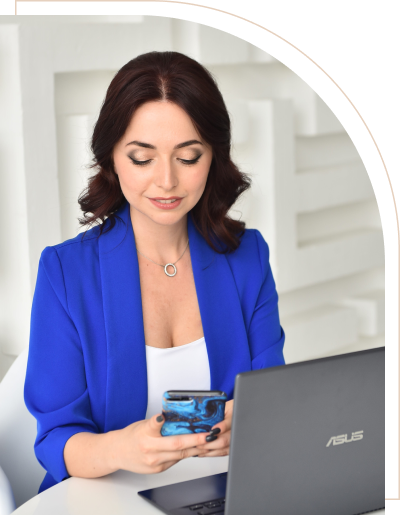
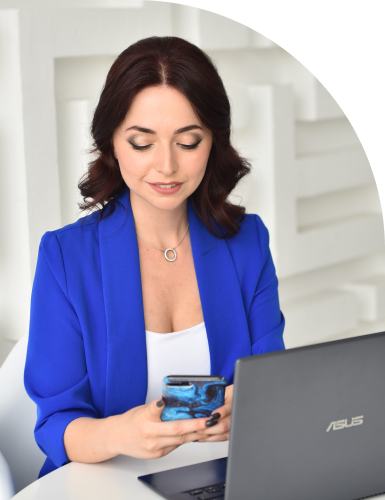
add burger

diff --git a/styles/styles.css b/styles/styles.css
@@ -151,15 +151,17 @@
 
 .section_upmain {
   padding-block: 11rem 2rem;
-  grid-template-columns: 0.9fr 1fr;
+  grid-template-columns: 1fr 1fr;
 }
 
 .upmain_left {
   position: relative;
+  max-width: 480px;
+  max-height: 650px;
   z-index: 1;
 }
 
-.upmain_wrapper::after {
+.upmain_frame::after {
   content: "";
   position: absolute;
   width: 100%;
@@ -173,12 +175,6 @@
   z-index: -1;
 }
 
-.upmain_left img {
-  display: block;
-  max-width: 480px;
-  height: auto;
-  z-index: 1;
-}
 
 .upmain_right {
   display: flex;
@@ -237,6 +233,27 @@
   height: fit-content;
 }
 
+.section_center{
+    position: relative;
+    max-width: 360px;
+    max-height: 560px;
+    z-index: 1;
+}
+
+.main_frame::after{
+    content: "";
+    position: absolute;
+    width: 100%;
+    height: 100%;
+    border: 1.5px solid var(--secondaryColor);
+    /* clip-path: polygon(0 0, 100% 0, 100% 80%, 0 100%); */
+    border-top-left-radius: 250px;
+    bottom: -24px;
+    left: 24px;
+    z-index: -1;
+}
+
+
 /* =================  SECTION ABOUT ============================= */
 .section_about,
 .section_education {
@@ -252,6 +269,26 @@
 .section_about_left {
   gap: 2rem;
 }
+
+.section_about_right{
+    position: relative;
+    max-width: 432px;
+    max-height: 646px;
+    z-index: 1;
+}
+
+.about_frame::after{
+    content: "";
+    position: absolute;
+    width: 100%;
+    height: 100%;
+    background-color: var(--secondaryColor);
+    border-top-left-radius: 250px;
+    bottom: -24px;
+    right: 24px;
+    z-index: -1;
+}
+
 /*========================== SECTION EDUCATION =============== */
 
 .section_education_content {
@@ -311,6 +348,27 @@
   margin-top: 0;
 }
 
+.section_consultation_left{
+    position: relative;
+    max-width: 385px;
+    max-height: 500px;
+    z-index: 1;
+}
+
+.consultation_frame::after{
+    content: "";
+    position: absolute;
+    width: 100%;
+    height: 100%;
+    border: 1.5px solid var(--secondaryColor);
+    border-top-right-radius: 250px;
+    top: -24px;
+    left: 24px;
+    z-index: -1;
+}
+
+
+
 /* ================= SECTION  FAQ ============================ */
 .section_faq {
   padding-block: 9.5rem 2rem;
@@ -321,6 +379,26 @@
   padding-top: 3.7rem;
   gap: 7.5rem;
 }
+
+.section_faq_right{
+    position: relative;
+    max-width: 432px;
+    max-height: 600px;
+    z-index: 1;
+}
+
+.faq_frame::after{
+    content: "";
+    position: absolute;
+    width: 100%;
+    height: 100%;
+    border: 1.5px solid var(--secondaryColor);
+    border-top-left-radius: 250px;
+    bottom: -24px;
+    right: 24px;
+    z-index: -1;
+}
+
 
 /* ========= FAQ ================ */
 
@@ -415,6 +493,20 @@ svg {
   display: flex;
   justify-content: space-between;
 }
+.footer .legal p{
+    font-size: 14px;
+}
+
+.footer .legal p, 
+.footer .footer_last_items li:nth-last-child(1)
+{
+    color: var(--mainColor);
+}
+
+.footer_menu ul{
+    display: grid;
+    gap: 10px;
+}
 
 .footer .footer_menu {
   display: flex;
@@ -422,6 +514,13 @@ svg {
 }
 .footer .footer_last_items {
   text-align: end;
+  display: grid;
+  gap: 10px;
+}
+
+.footer .footer_last_items address{
+    font-family: var(--textFont);
+    font-style: normal;
 }
 
 /* LOADER/.........................................================================ */

diff --git a/index.html b/index.html
@@ -47,7 +47,7 @@
         <section class="container section section_upmain grid">
           <!-- <img class="absolute_element" src="/assets/images/Rectangle 13.png" alt=""> -->
           <div class="upmain_left">
-            <div class="upmain_wrapper">
+            <div class="upmain_frame">
               <img src="/assets/images/upmain-photo.png" alt="Image of Hero" />
             </div>
           </div>
@@ -174,7 +174,11 @@
                 <p>Страх, стыд, обида, вина, гнев</p>
               </li>
             </ul>
-            <img src="/assets/images/section_main.png" alt="Girl with book" />
+            <div class="section_center">
+              <div class="main_frame">
+                <img src="/assets/images/main-photo.png" alt="Girl with book" />
+              </div>
+            </div>
             <ul class="section__list">
               <li>
                 <svg
@@ -269,7 +273,14 @@
               беседы.
             </p>
           </div>
-          <img src="/assets/images/about.png" alt="Hero is siting with book" />
+          <div class="section_about_right">
+            <div class="about_frame">
+              <img
+                src="/assets/images/about-photo.png"
+                alt="Hero is siting with book"
+              />
+            </div>
+          </div>
         </div>
       </section>
       <section class="container section section_education" id="education">
@@ -334,10 +345,14 @@
       <section class="section container section_consultation" id="consultation">
         <p class="section_title">Консультация</p>
         <div class="grid section_consultation_content">
-          <img
-            src="/assets/images/consultation.png"
-            alt="Hero with smartphone and laptop"
-          />
+          <div class="section_consultation_left">
+            <div class="consultation_frame">
+              <img
+                src="/assets/images/consultation.png"
+                alt="Hero with smartphone and laptop"
+              />
+            </div>
+          </div>
           <div class="section_consultation_right">
             <ul class="section__list">
               <li>
@@ -529,7 +544,11 @@
             </div>
             <p class="button">задать вопрос</p>
           </div>
-          <img src="/assets/images/faq.png" alt="Girl with laptop" />
+          <div class="section_faq_right">
+            <div class="faq_frame">
+              <img src="/assets/images/faq.png" alt="Girl with laptop" />
+            </div>
+          </div>
         </div>
       </section>
     </main>

diff --git a/styles/reset.css b/styles/reset.css
@@ -1,4 +1,4 @@
-    
+
   
   * {
     box-sizing: border-box;
@@ -15,6 +15,8 @@
   span {
     font-family: var(--textFont);
     font-weight: var(--fontRegular);
+    font-size: 18px;
+    letter-spacing: -0.5px;
   }
   
   p,
